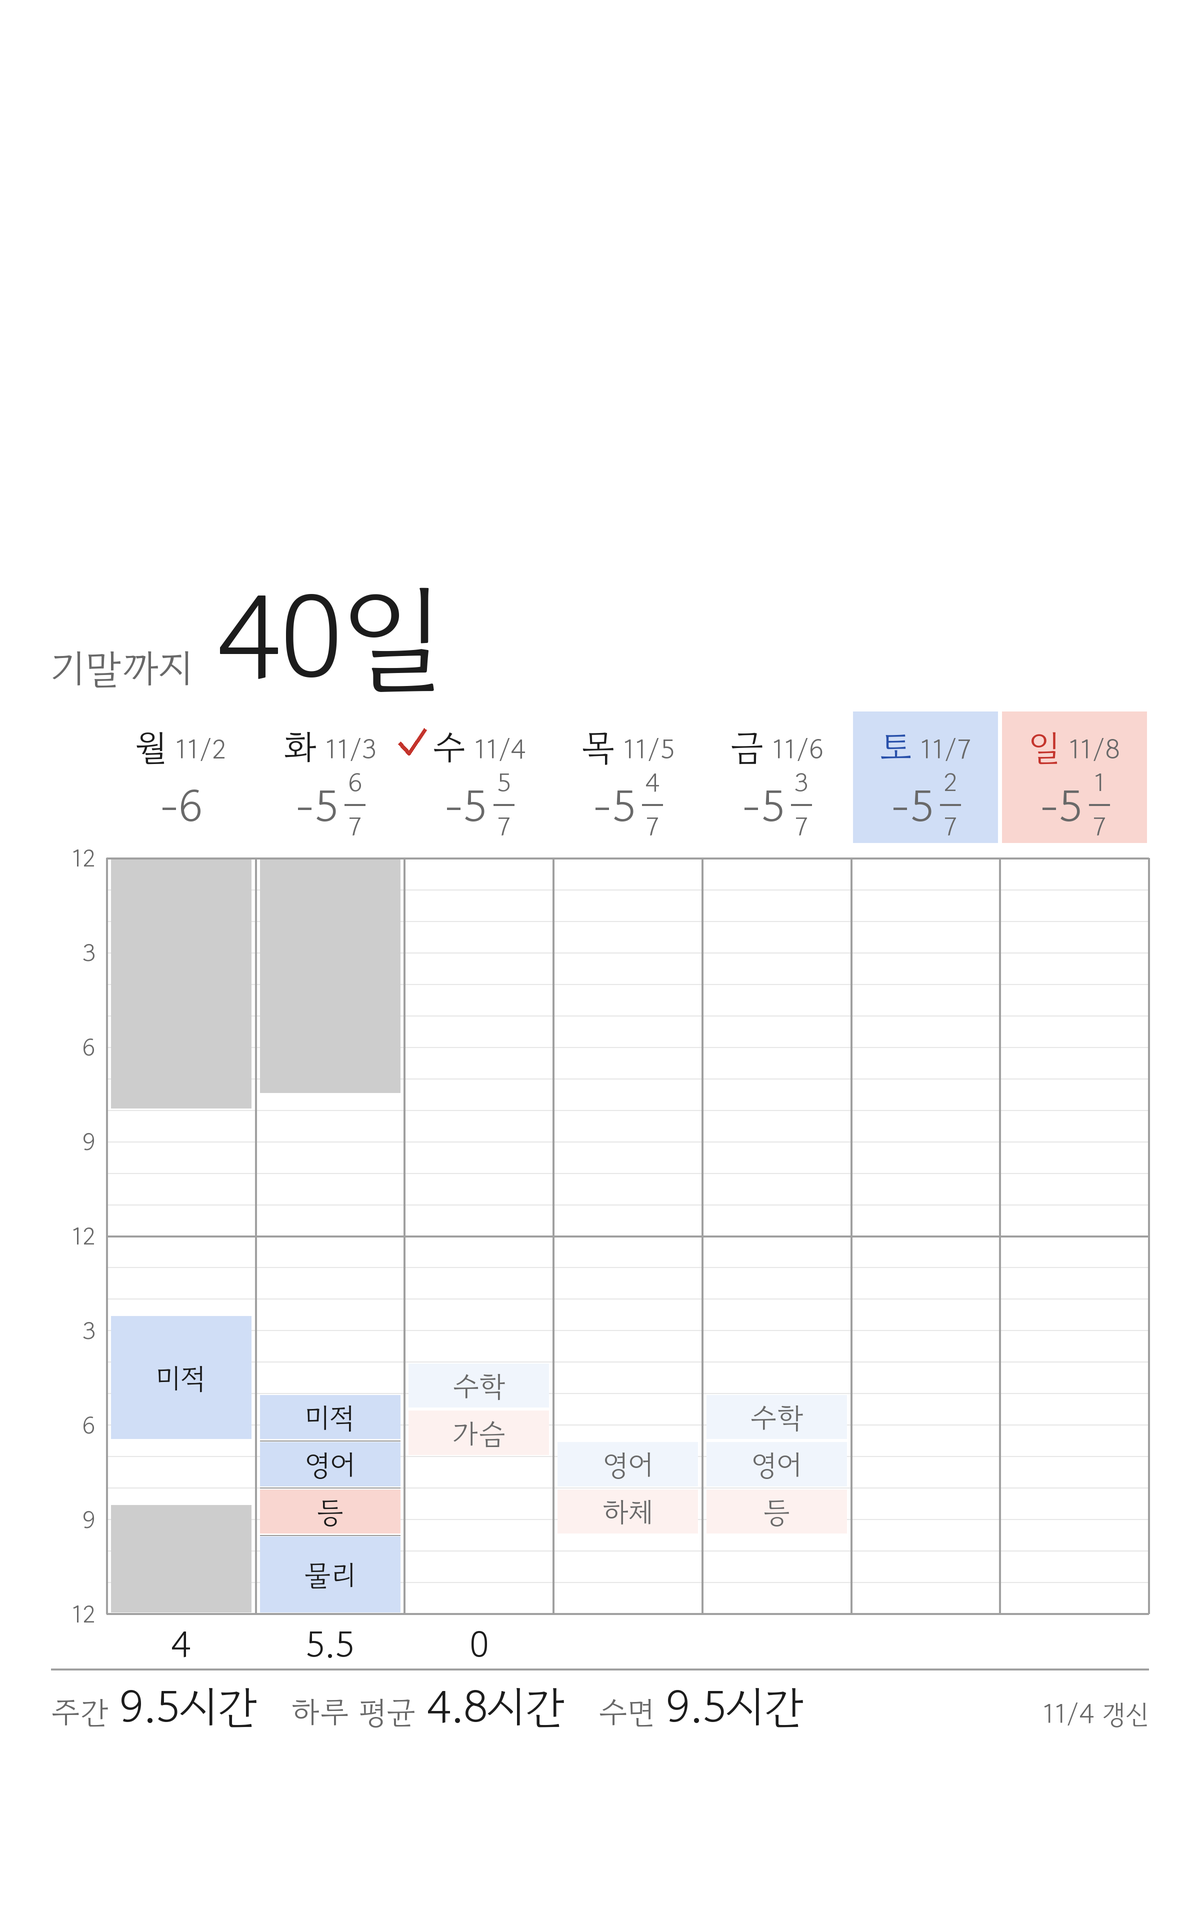
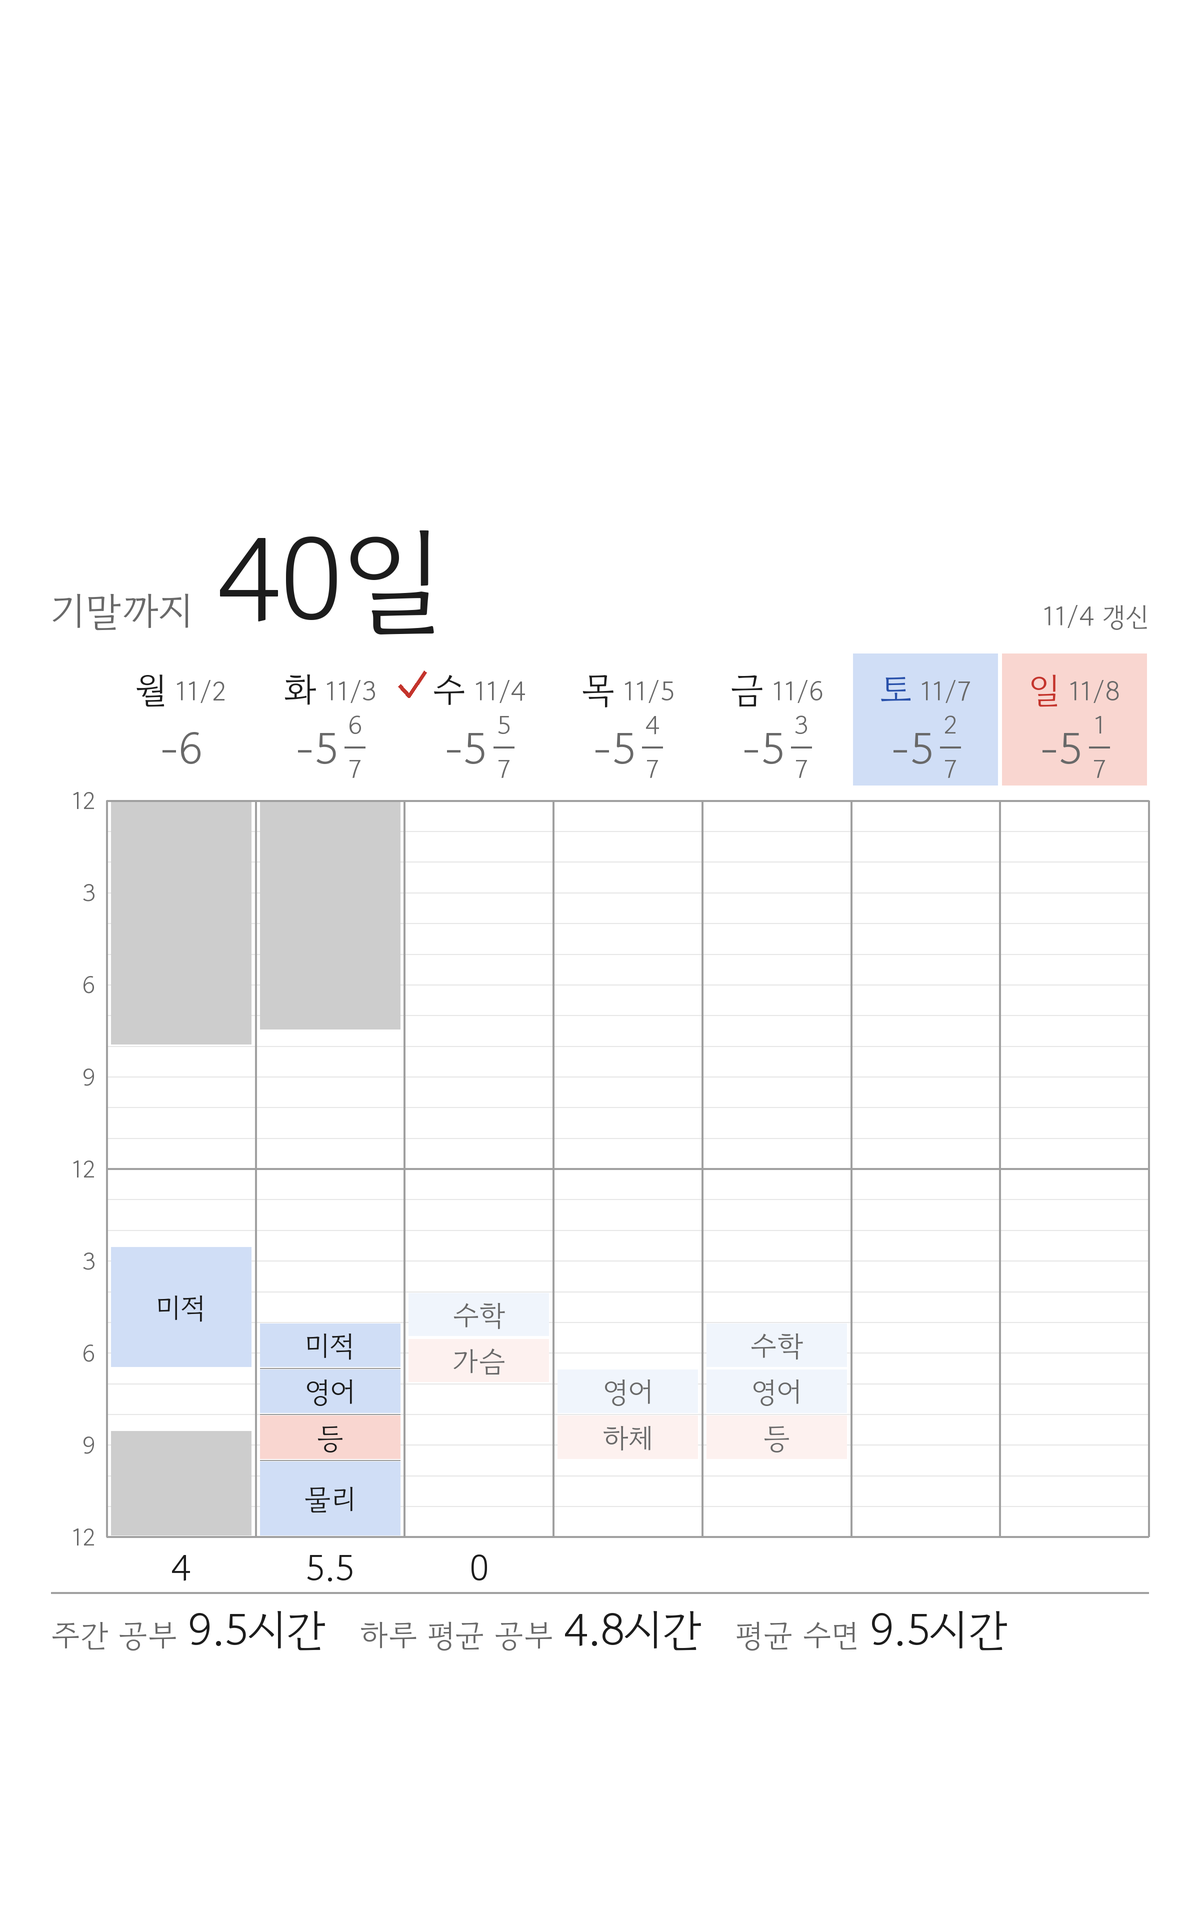
Raise layout, clearer footer labels
Claude-Session: https://claude.ai/code/session_016sgH3W1t4jFFoNxyrfYock

diff --git a/make.py b/make.py
@@ -29,8 +29,8 @@ RED_FILL = (249, 214, 208)     # 한 공부 외
 SLEEP_FILL = (205, 205, 205)   # 수면
 BLUE_PLAN = (240, 245, 252)    # 해야 할 공부
 RED_PLAN = (253, 241, 239)     # 해야 할 운동·일정
-TOP_EMPTY = 0.30      # 위쪽 시계 자리
-BOTTOM_EMPTY = 0.075  # 아래쪽 잠금화면 단축 아이콘 자리
+TOP_EMPTY = 0.27      # 위쪽 시계 자리
+BOTTOM_EMPTY = 0.115  # 아래쪽 잠금화면 단축 아이콘 자리
 BACKDROP = None       # 바탕 무늬를 그리는 함수(선택)
 SS = 2                # 2배로 그린 뒤 줄여 선을 매끄럽게 한다
 
@@ -94,9 +94,9 @@ def header(g, data, today, W, L, R, y, u):
     return y + 136 * u
 
 
-def footer(g, stats, stamp, L, R, y, u):
+def footer(g, stats, L, R, y, u):
     """stats: [(이름, 값)]"""
-    fs, fb, ft = font(SANS, int(28 * u)), font(BOLD, int(40 * u)), font(SANS, int(24 * u))
+    fs, fb = font(SANS, int(28 * u)), font(BOLD, int(40 * u))
     g.line((L, y, R, y), fill=RULE_STRONG, width=max(2, int(2 * u)))
     y += 16 * u
     x = L
@@ -105,7 +105,6 @@ def footer(g, stats, stamp, L, R, y, u):
         x += text_w(g, name, fs) + 10 * u
         g.text((x, y + 34 * u), value, font=fb, fill=INK, anchor="ls")
         x += text_w(g, value, fb) + 30 * u
-    g.text((R, y + 34 * u), stamp, font=ft, fill=INK_SOFT, anchor="rs")
 
 
 def draw(data, today, W, H, out):
@@ -246,10 +245,12 @@ def draw(data, today, W, H, out):
     stamp = f"{today.month}/{today.day} 갱신" + (" · 예시" if data.get("example") else "")
     # 아침에 만들 때 오늘은 아직 0시간이므로, 기록이 없는 오늘은 나누는 날수에서 뺀다.
     passed = today.weekday() + (1 if totals[today.weekday()] else 0)
-    stats = [("주간", f"{label(week_study)}시간"),
-             ("하루 평균", f"{label(week_study / passed)}시간" if passed else "–"),
-             ("수면", f"{label(sleep_hours / sleep_days)}시간" if sleep_days else "–")]
-    footer(g, stats, stamp, L, R, bottom + total_h, u)
+    stats = [("주간 공부", f"{label(week_study)}시간"),
+             ("하루 평균 공부", f"{label(week_study / passed)}시간" if passed else "–"),
+             ("평균 수면", f"{label(sleep_hours / sleep_days)}시간" if sleep_days else "–")]
+    footer(g, stats, L, R, bottom + total_h, u)
+    # 갱신 날짜는 머리말 줄 오른쪽에 둔다.
+    g.text((R, H * TOP_EMPTY + 98 * u), stamp, font=font(SANS, int(24 * u)), fill=INK_SOFT, anchor="rs")
     im.resize((W // SS, H // SS), Image.LANCZOS).save(out, optimize=True)
 
 
